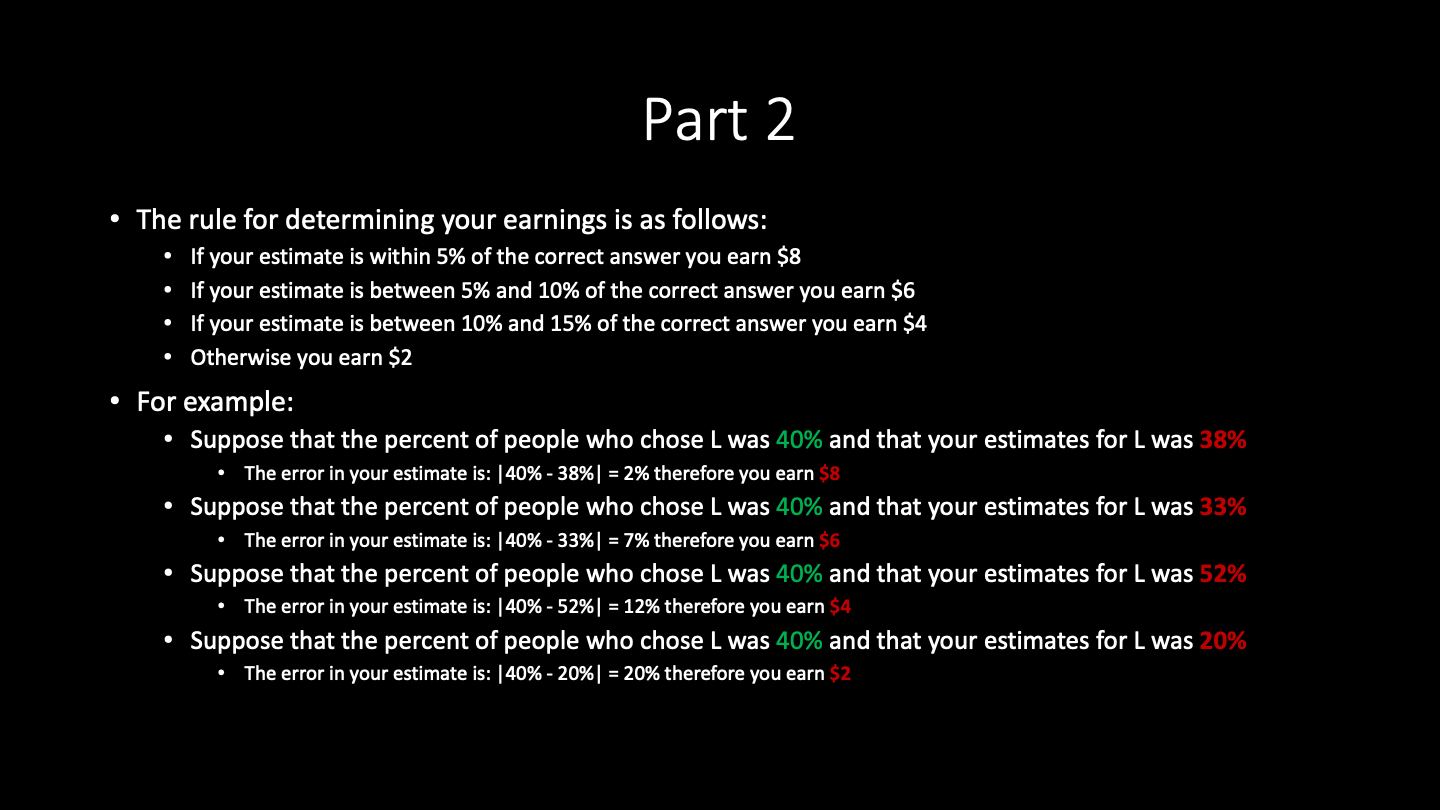
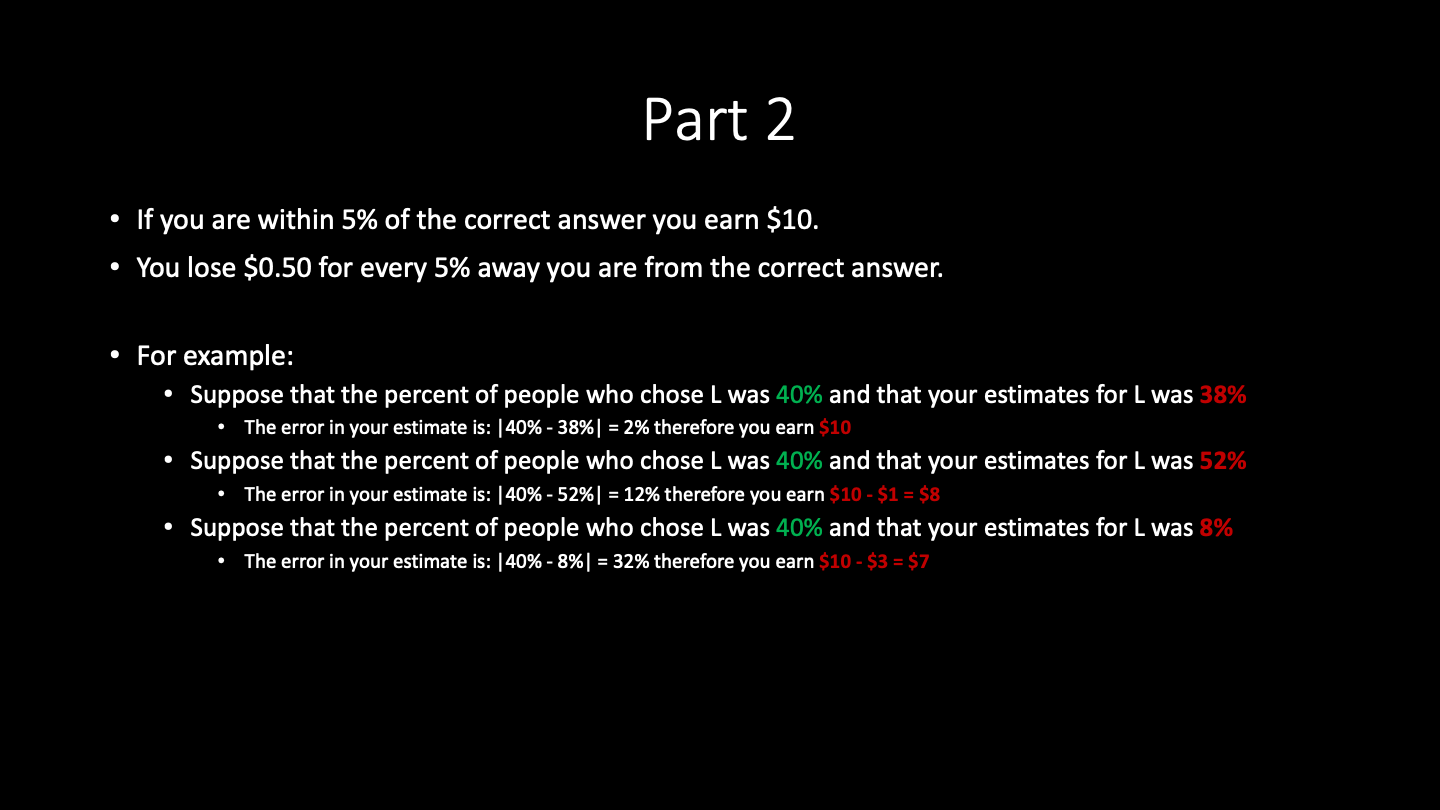
new instructions, order of display for games randomized, belief quiz change

Changed region(s): [[0.0938, 0.2469, 0.875, 0.8642]]

diff --git a/public/js/coordination_game.js b/public/js/coordination_game.js
@@ -277,6 +277,8 @@ function getRandomInt(min, max) {
 }
 
 
+
+
 /** choices */
 var choice_count = 0;
 var belief_count = 0;
@@ -367,7 +369,19 @@ function getRandDisplayChoice(n){
 }
 
 //var randDisplayOrderChoice = getRandDisplayChoice(n);
-var randDisplayOrderChoice = Array(n).fill([0]).flat();
+
+// randomize for each subject top and bottom actions
+// choose either display 0 or 3 for each subject throught the experiment
+var order = getRandomInt(0,3);
+if (order==0){
+    var randDisplayOrderChoice = Array(n).fill([0]).flat();
+} else if (order==1){
+    var randDisplayOrderChoice = Array(n).fill([1]).flat();
+} else if (order==2){
+    var randDisplayOrderChoice = Array(n).fill([2]).flat();
+} else if (order==3){
+    var randDisplayOrderChoice = Array(n).fill([3]).flat();
+}
 
 // randomize display of each action - choice phase
 function getRandDisplayBelief(randDisplayOrderChoice,randIndChoice,randIndBelief){
@@ -466,7 +480,7 @@ function getAnswersBeliefQuiz(belief_quiz_data){
         responses.push(belief_quiz_data[i].responses)
     }
     // var responses = belief_quiz_data[0].responses.slice(1,belief_quiz_data[0].responses.length-1).split(',');
-    var correctAnswers = ["$2","$6","FALSE"];
+    var correctAnswers = ["$8","TRUE","FALSE"];
     for(var i = 0; i < responses.length; i++){
         if(responses[i].includes(correctAnswers[i])){
             nCorrect = nCorrect + 1;
@@ -542,6 +556,7 @@ var feedback_question_choice_4 = [];
 var feedback_question_choice_5 = [];
 var feedback_question_choice_6 = [];
 
+var passedQuiz1 = 1;
 
 // question 1
 var controlQuestionChoice1 = {
@@ -942,8 +957,8 @@ var controlQuestionChoice6Response = {
 // quiz about the choice task
 
 
-// still to finish
-var passedQuiz1 = 1;
+
+//var passedQuiz1 = 1;
 var choice_quiz_data = [];
 var controlQuestionsChoice = {
     type: 'survey-multi-choice',
@@ -1048,28 +1063,29 @@ var beliefInstructions = {
 }
 
 // quiz about the belief task
-var question_belief_1_options = ["$8",
+var question_belief_1_options = ["$10",
+                        "$8",
                         "$6",
-                        "$4",
-                        "$2"];
-var question_belief_2_options = ["$8",
-                        "$6",
-                        "$4",
-                        "$2"];
+                        "$4"];
+var question_belief_2_options = ["TRUE",
+                        "FALSE"];
 var question_belief_3_options = ["TRUE",
                          "FALSE"];
 
 
 var questions_belief_data = [];
+
 var feedback_question_belief_1 = [];
 var feedback_question_belief_2 = [];
 var feedback_question_belief_3 = [];
                          
+var passedQuiz2 = 1;
+
 // question 1
 var controlQuestionBelief1 = {
     type: 'survey-multi-choice',
     questions: [
-        { prompt: "Question 1: Suppose you estimate that 60% of the other participants selected column L in this round. What will you earn if this decision is selected for payment?", name: 'Q1', options: question_belief_1_options, required: true },
+        { prompt: "Question 1: Suppose you estimate that 58% of the other participants selected column L in this round. What will you earn if this decision is selected for payment?", name: 'Q1', options: question_belief_1_options, required: true },
     ],
     preamble: `<div> 
     <br><br/>
@@ -1081,17 +1097,12 @@ var controlQuestionBelief1 = {
     <br><br/>
     <div>Suppose that 80% of the participants in the study selected action L in the table above.</div>
     <br><br/>
-    <div>Recall that the rule used to calculate your earnings for this part of the study is the following.</div>
-    <div>
-            <div>If your estimate is within 5% of the correct answer you earn $8</div>
-            <div>If your estimate is between 5% and 10% of the correct answer you earn $6</div>
-            <div>If your estimate is between 10% and 15% of the correct answer you earn $4</div>
-            <div>Otherwise you earn $2</div>
-    </div>
+    <div>Recall that you lose $0.50 for every 5% away you are from the correct answer.</div>
+    <div>If you are within 5% of the correct answer, you earn $10.</div>
     <br><br/>`,
     on_finish: function (data) {
         questions_belief_data.push(data);
-        if(data.responses.includes("$2")){
+        if(data.responses.includes("$8")){
             data.correct = true; // can add property correct by modify data object directly
         } else {
             data.correct = false;
@@ -1114,29 +1125,24 @@ var controlQuestionBelief1Response = {
         return `
         <div>Your answer was <font size=120%; font color = 'red';> incorrect </font>!</div>
         <br><br/> 
-        <div>Question 1: Suppose you estimate that 60% of the other participants selected column L in this round. What will you earn if this decision is selected for payment?</div>
+        <div>Question 1: Suppose you estimate that 58% of the other participants selected column L in this round. What will you earn if this decision is selected for payment?</div>
         <br><br/> 
         <br><br/>
         <img class = 'img_questions' src="img/control/control_img_2.png"></img>
         <br><br/>
-        <div>Recall that the rule used to calculate your earnings for this part of the study is the following.</div>
-        <div>
-                <div>If your estimate is within 5% of the correct answer you earn $8</div>
-                <div>If your estimate is between 5% and 10% of the correct answer you earn $6</div>
-                <div>If your estimate is between 10% and 15% of the correct answer you earn $4</div>
-                <div>Otherwise you earn $2</div>
-        </div>
+        <div>Recall that you lose $0.50 for every 5% away you are from the correct answer.</div>
+        <div>If you are within 5% of the correct answer, you earn $10.</div>
             <br><br/>
+            $10 <br>
             $8 <br>
             $6 <br>
             $4 <br>
-            $2 <br>
             <br><br/>
-            The correct answer is: <font color = 'green';> $2 </font>.
+            The correct answer is: <font color = 'green';> $8 </font>.
             <br><br/>
-            The error in your estimate is |80% - 60%| = 20%.
+            The error in your estimate is |80% - 58%| = 22%.
             <br><br/>
-            Therefore, you earn <font color = 'green';> $2 </font>. 
+            Therefore, you earn $10 - $2 = <font color = 'green';> $8 </font>. 
             <br><br/>
         When you are ready, press the  <b>SPACE BAR</b> to continue. 
         <br><br/> 
@@ -1152,29 +1158,15 @@ var controlQuestionBelief1Response = {
 var controlQuestionBelief2 = {
     type: 'survey-multi-choice',
     questions: [
-        { prompt: "Question 2: Suppose you estimate that 87% of the other participants selected column L in this round. What will you earn if this decision is selected for payment?", name: 'Q2', options: question_belief_2_options, required: true },
+        { prompt: "Question 2: The closer your estimate is to the true answer the more you earn.", name: 'Q2', options: question_belief_2_options, required: true },
     ],
     preamble: `<div> 
     <br><br/>
     Please answer the following question. </div>
-    <div>Consider the following table.</div>
-    </div>
-    <br><br/>
-    <img class = 'img_questions' src="img/control/control_img_2.png"></img>
-    <br><br/>
-    <div>Suppose that 80% of the participants in the study selected action L in the table above.</div>
-    <br><br/>
-    <div>Recall that the rule used to calculate your earnings for this part of the study is the following.</div>
-    <div>
-            <div>If your estimate is within 5% of the correct answer you earn $8</div>
-            <div>If your estimate is between 5% and 10% of the correct answer you earn $6</div>
-            <div>If your estimate is between 10% and 15% of the correct answer you earn $4</div>
-            <div>Otherwise you earn $2</div>
-    </div>
     <br><br/>`,
     on_finish: function (data) {
         questions_belief_data.push(data);
-        if(data.responses.includes("$6")){
+        if(data.responses.includes("TRUE")){
             data.correct = true; // can add property correct by modify data object directly
         } else {
             data.correct = false;
@@ -1197,29 +1189,9 @@ var controlQuestionBelief2Response = {
         return `
         <div>Your answer was <font size=120%; font color = 'red';> incorrect </font>!</div>
         <br><br/> 
-        <div>Question 2: Suppose you estimate that 87% of the other participants selected column L in this round. What will you earn if this decision is selected for payment?</div>
+        <div>Question 2: The closer your estimate is to the true answer the more you earn.</div>
         <br><br/> 
-        <br><br/>
-        <img class = 'img_questions' src="img/control/control_img_2.png"></img>
-        <br><br/>
-        <div>Recall that the rule used to calculate your earnings for this part of the study is the following.</div>
-        <div>
-                <div>If your estimate is within 5% of the correct answer you earn $8</div>
-                <div>If your estimate is between 5% and 10% of the correct answer you earn $6</div>
-                <div>If your estimate is between 10% and 15% of the correct answer you earn $4</div>
-                <div>Otherwise you earn $2</div>
-        </div>
-            <br><br/>
-            $8 <br>
-            $6 <br>
-            $4 <br>
-            $2 <br>
-            <br><br/>
-            The correct answer is: <font color = 'green';> $6 </font>.
-            <br><br/>
-            The error in your estimate is |80% - 87%| = 7%.
-            <br><br/>
-            Therefore, you earn <font color = 'green';> $6 </font>. 
+            The correct answer is: <font color = 'green';> TRUE </font>.
             <br><br/>
         When you are ready, press the  <b>SPACE BAR</b> to continue. 
         <br><br/> 
@@ -1296,8 +1268,8 @@ var controlQuestionBelief3Response = {
 
 
 
-// still to finish
-var passedQuiz2 = 1;
+// old version - without feedback
+//var passedQuiz2 = 1;
 var belief_quiz_data = [];
 var controlQuestionsBelief = {
     type: 'survey-multi-choice',

diff --git a/public/js/plugins/table-slider-response.js b/public/js/plugins/table-slider-response.js
@@ -314,7 +314,7 @@ jsPsych.plugins['table-slider-response'] = (function() {
         "game_number": trial.stimulus_order,
         "display_order": trial.stimulus_display,
         "game_r": trial.stimulus_r,
-        "game_type_game": trial.stimulus_type_game,
+        "game_type": trial.stimulus_type_game,
         "game_eu": trial.stimulus_eu,
         "n_game": trial.stimulus_n_game,
         "n_game_r": trial.stimulus_n_game_r,

diff --git a/public/js/plugins/binary-choice-game.js b/public/js/plugins/binary-choice-game.js
@@ -263,7 +263,7 @@ jsPsych.plugins["binary-choice-game"] = (function () {
         "game_number": trial.stimulus_order,
         "display_order": trial.stimulus_display,
         "game_r": trial.stimulus_r,
-        "game_type_game": trial.stimulus_type_game,
+        "game_type": trial.stimulus_type_game,
         "game_eu": trial.stimulus_eu,
         "n_game": trial.stimulus_n_game,
         "n_game_r": trial.stimulus_n_game_r,
